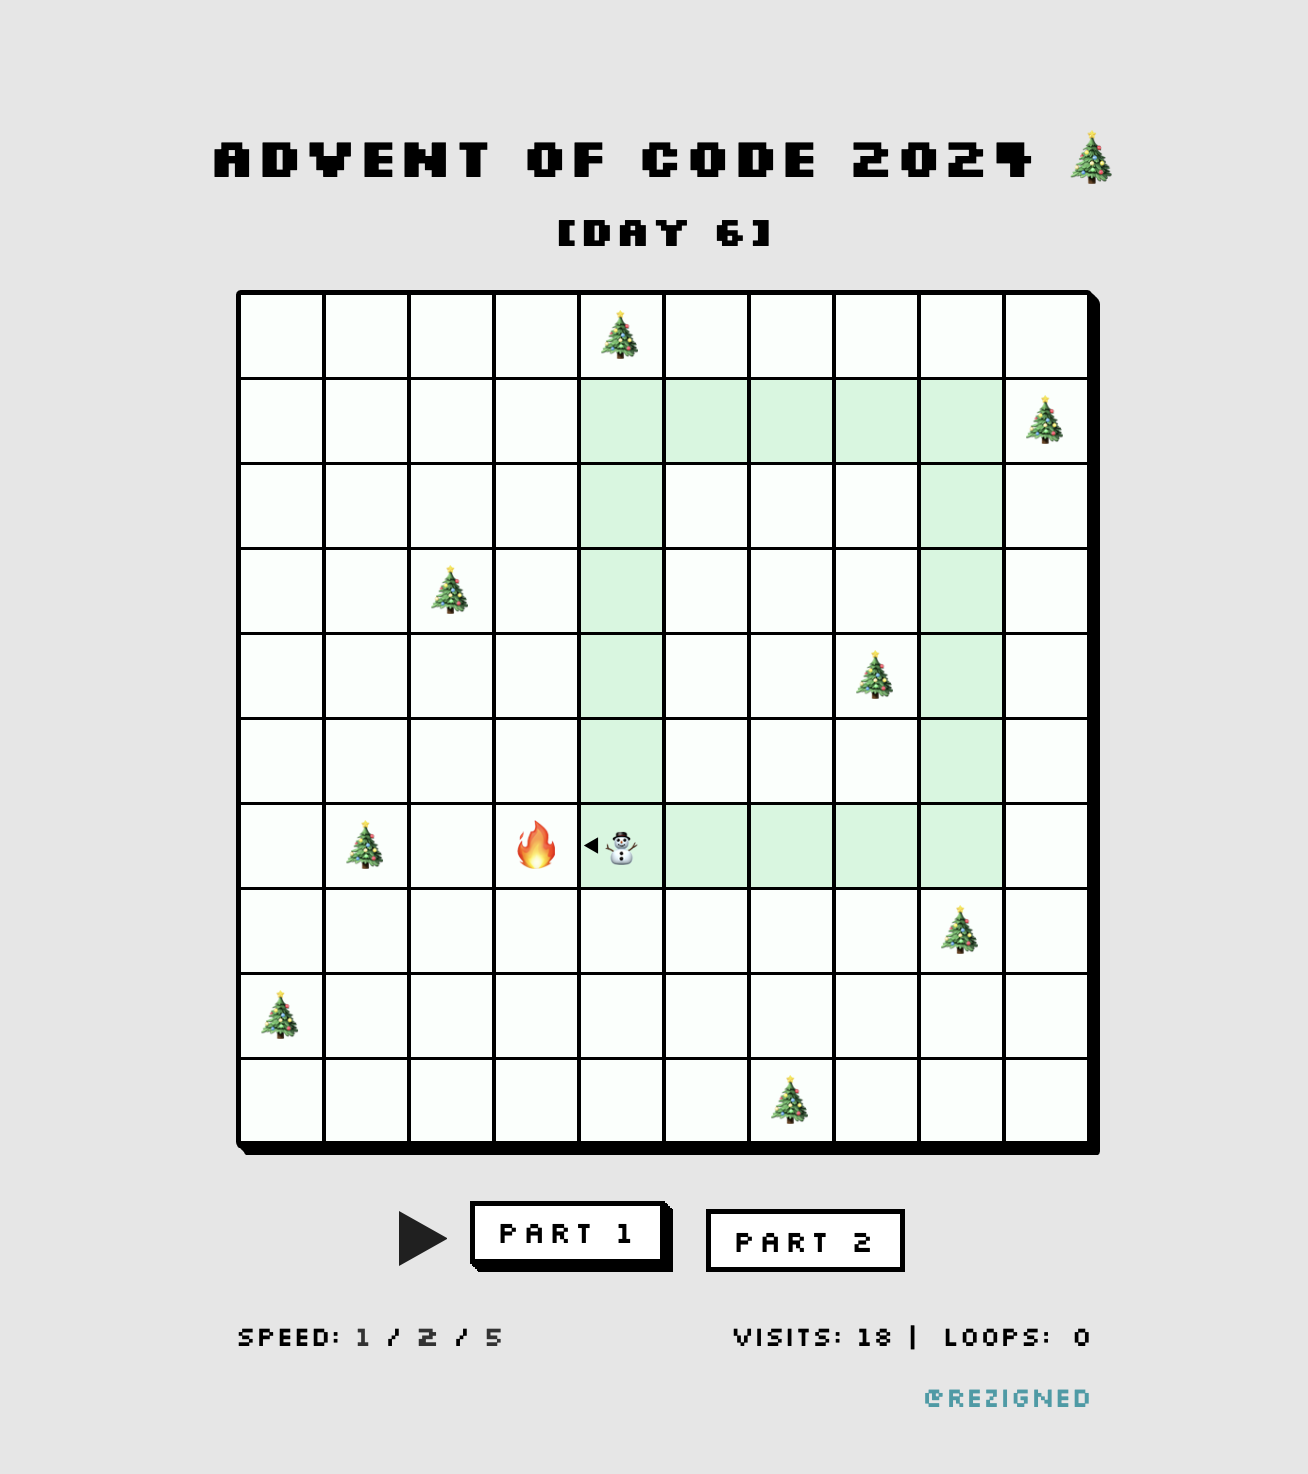
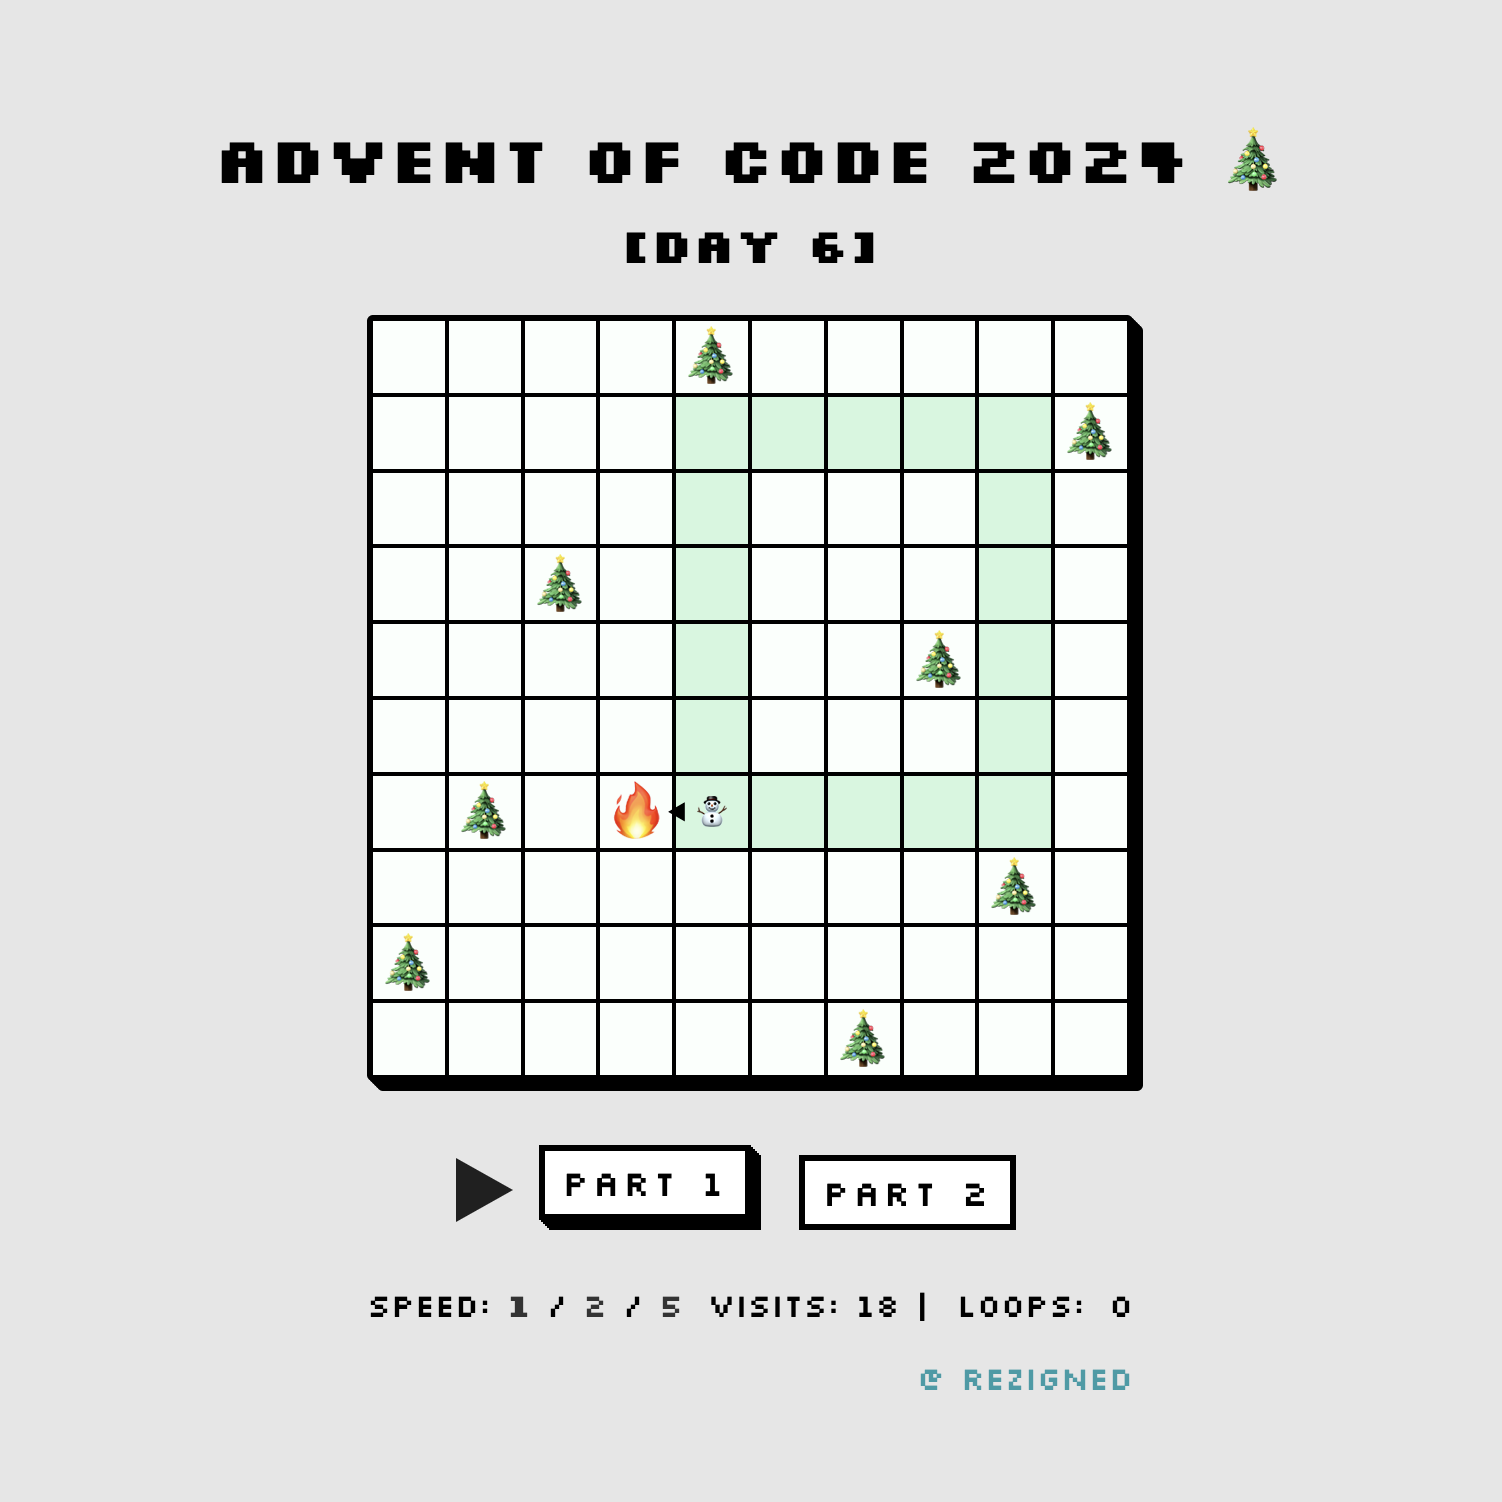
fix: make grid responsive

Changed region(s): [[0.1223, 0.0936, 0.8563, 0.9674], [0.1835, 0.905, 0.2446, 0.9362], [0.8257, 0.0936, 0.8563, 0.1248]]

diff --git a/index.css b/index.css
@@ -10,6 +10,10 @@ body {
   background-color: #e6e6e6;
 }
 
+h1, h2 {
+  text-align: center;
+}
+
 h2 {
   margin-top: -1rem;
 }
@@ -19,8 +23,10 @@ h2 {
 }
 .grid {
   display: grid;
-  grid-template-columns: repeat(10, 3rem);
-  grid-template-rows: repeat(10, 3rem);
+  margin: 0 auto;
+  min-height: 50vmin;
+  grid-template-columns: repeat(10, minmax(30px, 1fr));
+  grid-template-rows: repeat(10, minmax(30px, 1fr));
   gap: 2px;
   background-color: #000;
   padding: 3px;
@@ -28,6 +34,7 @@ h2 {
   box-shadow: 1px 1px 0px 0px, 2px 2px 0px 0px, 3px 3px 0px 0px, 4px 4px 0px 0px,
     5px 5px 0px 0px;
   color: #000;
+  aspect-ratio: 1;
 }
 .grid .cell {
   background-color: rgb(250, 255, 252);
@@ -100,6 +107,7 @@ h2 {
 }
 .credit {
   text-align: right;
+  margin-bottom: 1rem;
 }
 .credit a {
   color: #2a9ca7;
@@ -133,18 +141,6 @@ h2 {
   }
 }
 
-/* .button:hover {
-  box-shadow: 0px 0px 0px 0px;
-  top: 5px;
-  left: 5px;
-} */
-
-@media (min-width: 768px) {
-  .button {
-    padding: 0.25em 0.75em;
-  }
-}
-
 .btn-container {
   width: 2.6rem;
   height: 1.6rem;
@@ -158,8 +154,6 @@ h2 {
   padding: 0;
   cursor: pointer;
   background-color: transparent;
-  /* will-change: border-width;
-  transition: all 0.2s ease; */
 
   &.paused {
     border-style: double;
@@ -170,4 +164,25 @@ h2 {
 
 .hide {
   display: none;
+}
+
+@media screen and (max-width: 600px) {
+  h1 {
+    font-size: 1.5rem;
+  }
+  h2 {
+    font-size: 1.2rem;
+  }
+  body {
+    font-size: 0.9rem;
+  }
+  .grid {
+    /*height: 70vmin;*/
+  }
+  .button {
+    font-size: 0.9rem;
+  }
+  .btn-container {
+    width: 2.4rem;
+  }
 }

diff --git a/README.md b/README.md
@@ -1,5 +1,7 @@
-# Avent of Code 2024 - Game
+# Avent of Code 2024: The Game
 
-The interactive game for [Advent of Code 2024 - Day 6](https://adventofcode.com/2024/day/6).
+An interactive game based on the [Advent of Code 2024 - Day 6](https://adventofcode.com/2024/day/6) puzzle.
+
+<p align="center">Let's <a href="https://rezigned.com/aoc-2024/">Play!</a> 🚀</p>
 
 ![Day 6](./public/preview.png)
